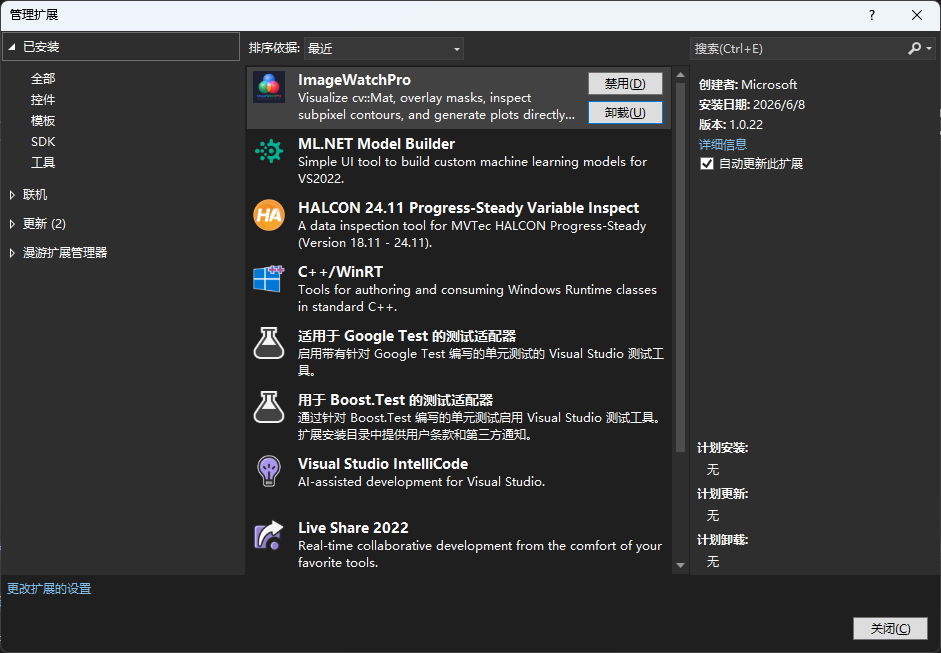
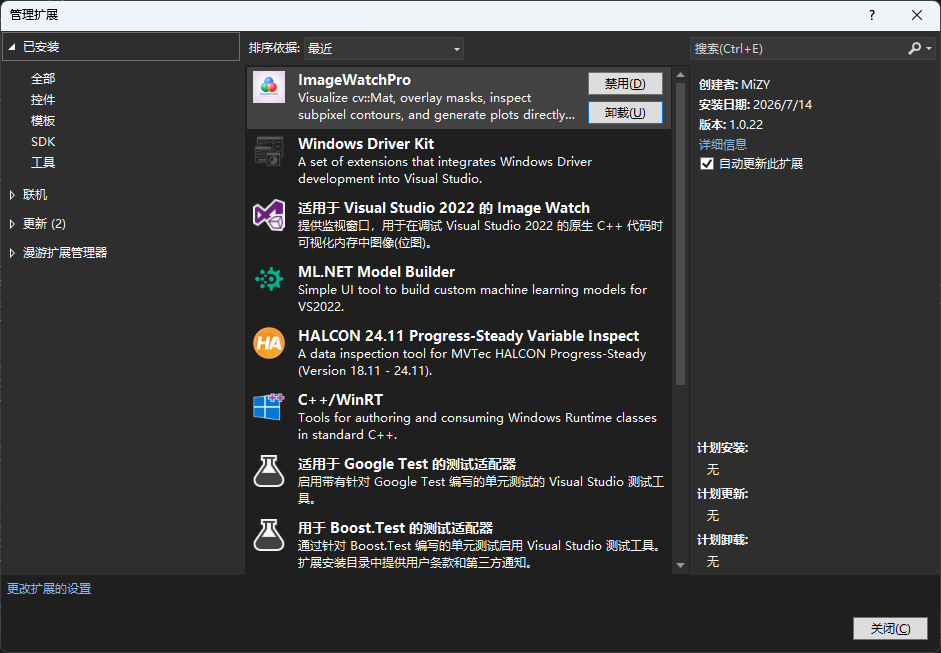
doc: update readme

Changed region(s): [[0.2465, 0.0919, 0.7396, 0.7657], [0.2465, 0.7963, 0.7088, 0.8882], [0.8013, 0.1225, 0.8629, 0.1838]]

diff --git a/README.md b/README.md
@@ -1,4 +1,4 @@
-# ImageWatchPro for Visual Studio
+# ImageWatchPro for Visual Studio
 
 [中文说明](README.zh-CN.md)
 
@@ -74,7 +74,11 @@ ImageWatchPro automatically captures OpenCV contour and geometry variables from 
 
 Integer contours align to pixel centers, while floating-point contours keep subpixel coordinates.
 
-![Multiple contours](images/4.2-多轮廓显示_compressed.gif)
+![Multiple contours](images/4.2-多轮廓显示.gif)
+
+It also supports multi-contour overlay display and export to local storage.
+
+![Multiple contours](images/4.2-多轮廓导出.gif)
 
 Native OpenCV geometry objects can be visualized directly without converting them into drawing code first.
 

diff --git a/README.zh-CN.md b/README.zh-CN.md
@@ -1,4 +1,4 @@
-# ImageWatchPro for Visual Studio
+# ImageWatchPro for Visual Studio
 
 ImageWatchPro 是一个面向 Visual Studio 2022/2026 的原生 C++ / OpenCV 调试可视化扩展。它在经典 Image Watch 的基础上，补齐了 Mask 叠加、轮廓/几何变量、数值绘图、直方图和合成导出等现代视觉调试能力。
 
@@ -69,7 +69,11 @@ ImageWatchPro 把左侧区域拆成 Locals、Contour、Plot、Watch 四个面板
 
 整数轮廓按像素中心显示，浮点/双精度轮廓保留原始亚像素坐标。多轮廓可自动循环配色，也可以切换为点集显示。
 
-![多轮廓显示](images/4.2-多轮廓显示_compressed.gif)
+![多轮廓显示](images/4.2-多轮廓显示.gif)
+
+还能支持多轮廓叠加显示导出到本地。
+
+![多轮廓显示](images/4.2-多轮廓导出.gif)
 
 OpenCV 原生几何对象无需额外画图代码，也能直接查看。
 